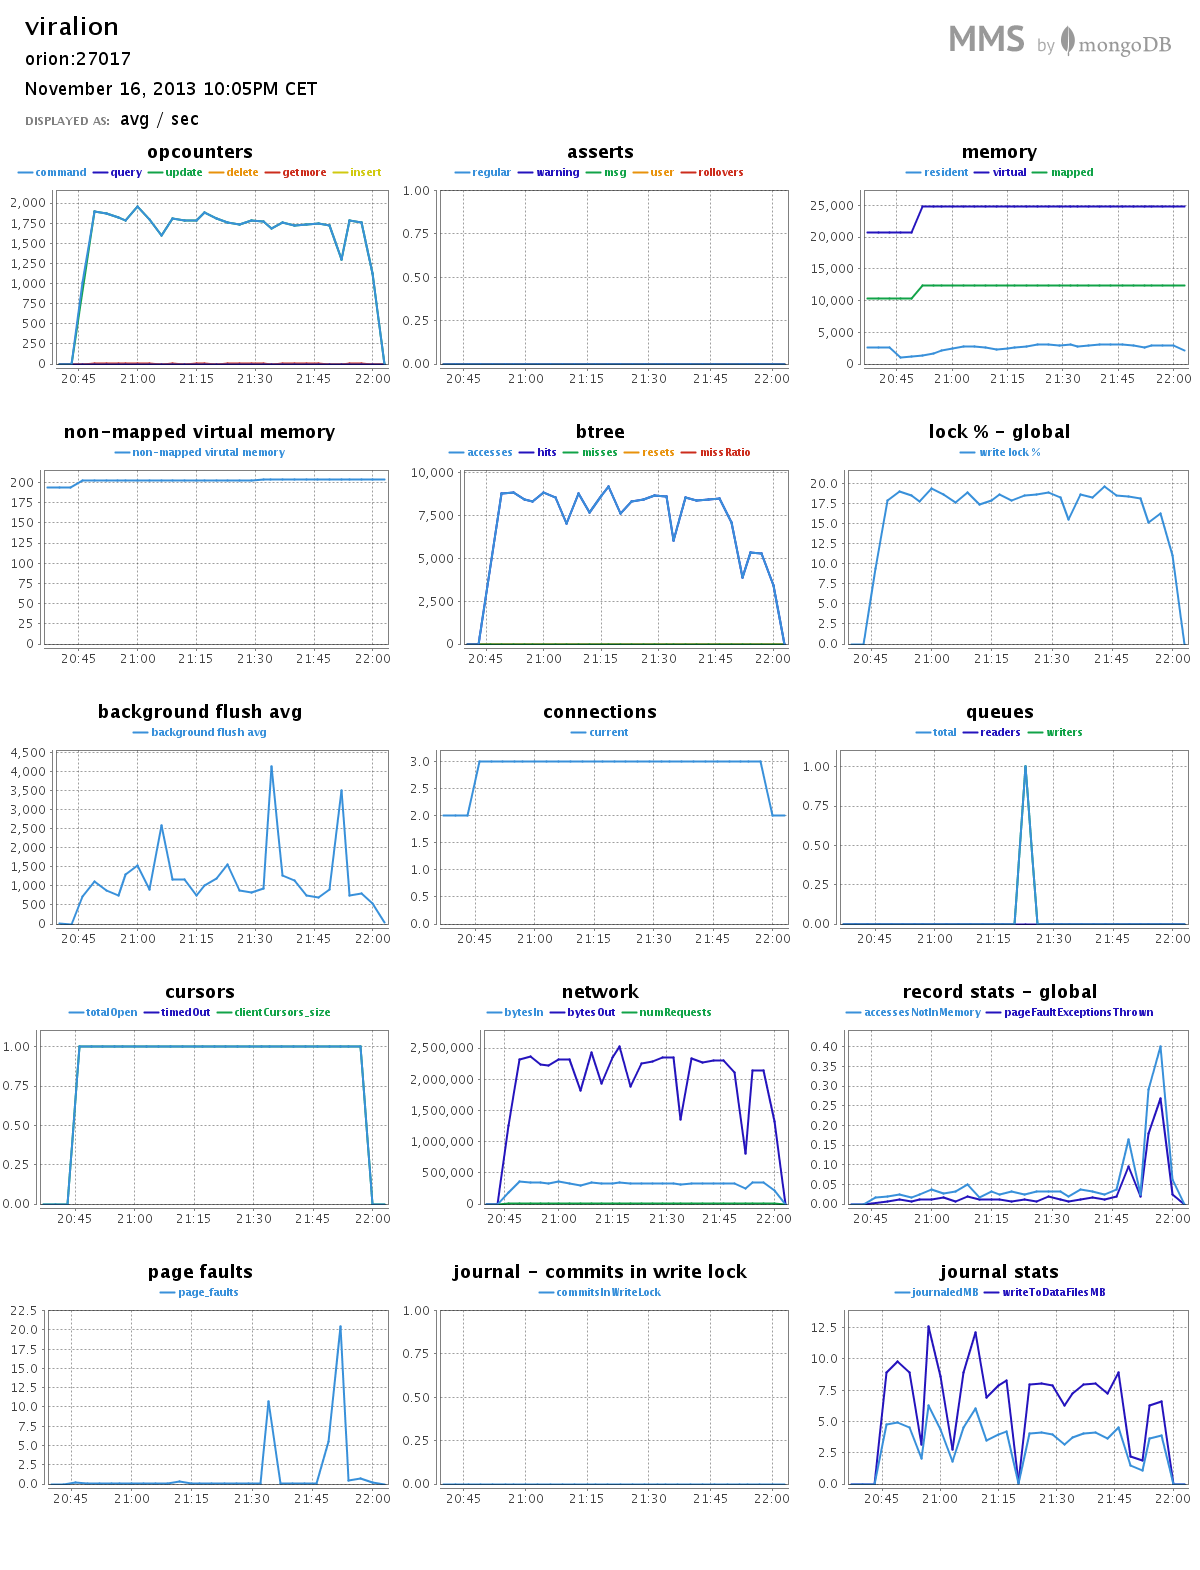
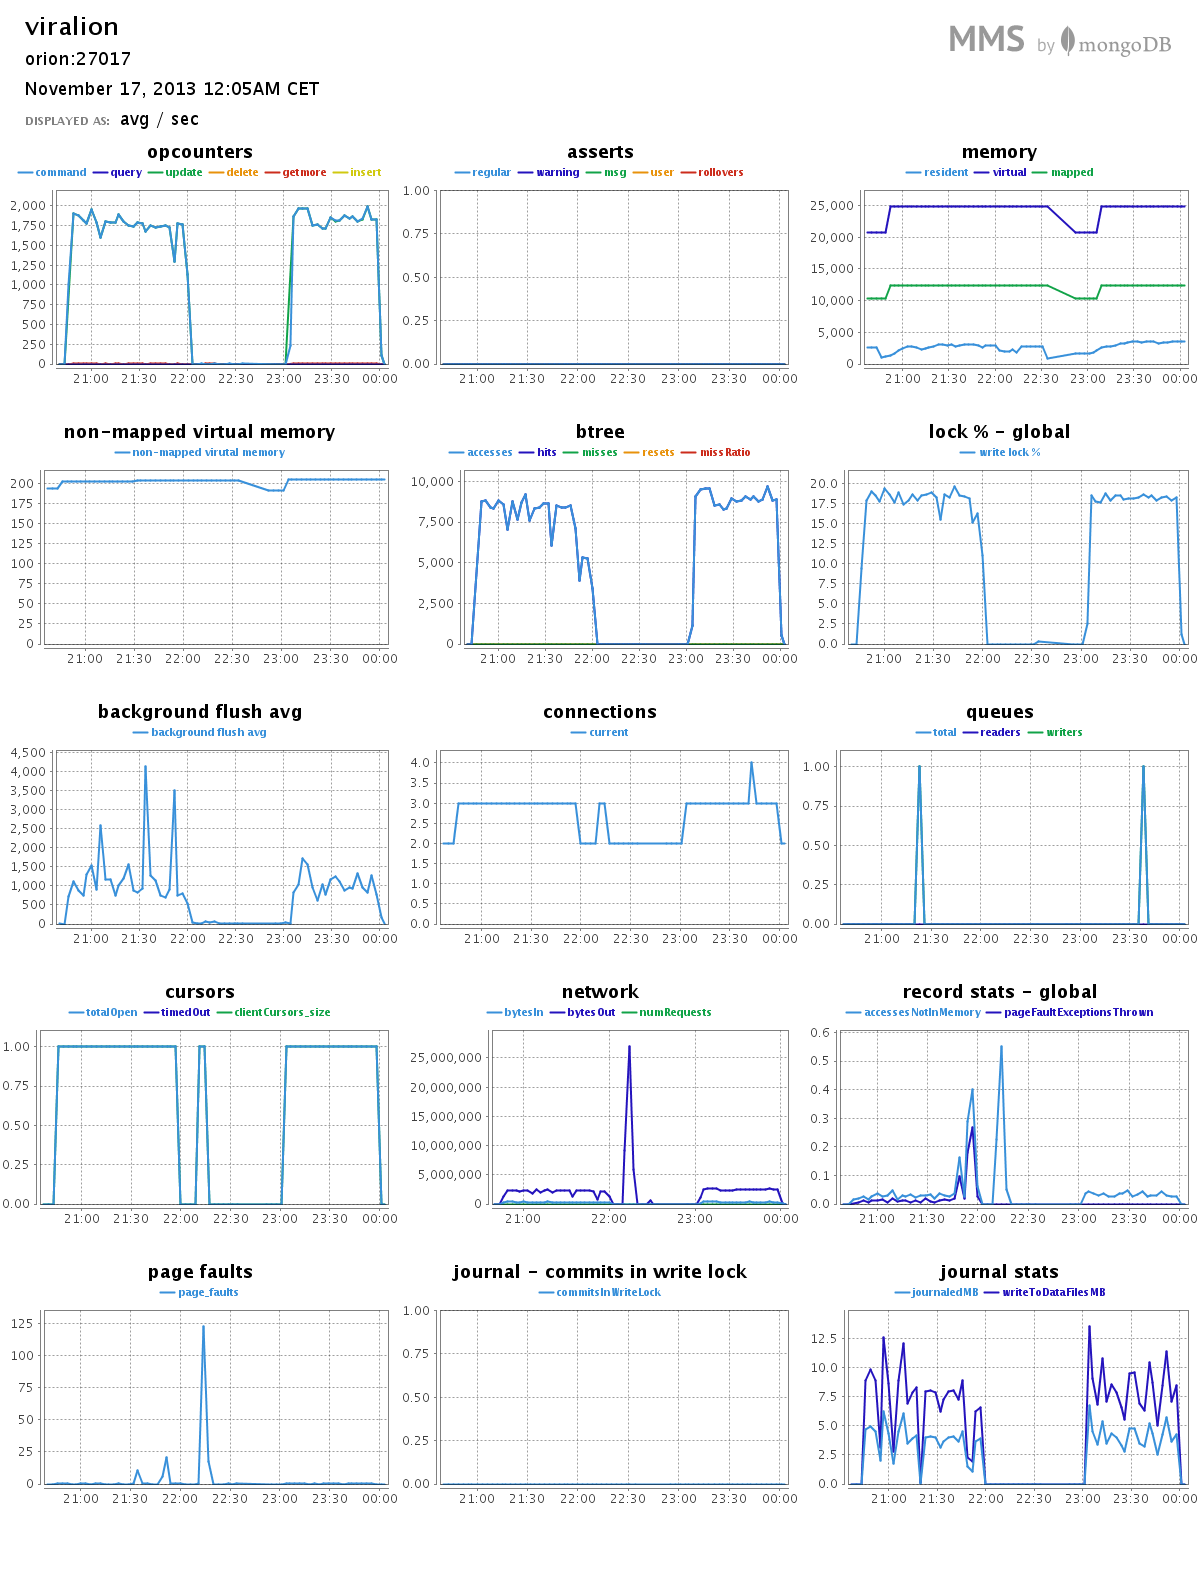
1c - poprawka w przerabianiu tagów i działające zliczanie

diff --git a/scripts/mkozminski/train_count.py b/scripts/mkozminski/train_count.py
@@ -1,0 +1,31 @@
+#!/bin/env python
+import pymongo
+
+from pymongo import MongoClient
+client = MongoClient()
+db = client.test
+train = db.train
+
+allEntries = train.find(snapshot=True)
+
+tagsCount = 0
+allTags = {}
+
+def countTags(allTags):
+    count = 0
+    for tag in allTags:
+        count += allTags[tag]
+    return count
+
+print('Counting...')
+for entry in allEntries:
+    for tag in entry['tags']:
+        val = allTags.get(tag, 0)
+        if val == 0:
+            allTags[tag] = 1
+        else:
+            allTags[tag] += 1
+print('Done.')
+print('All tags: ' + str(countTags(allTags)))
+print('Unique tags: ' + str(len(allTags)))
+allEntries.close();

diff --git a/scripts/mkozminski/train_tags.py b/scripts/mkozminski/train_tags.py
@@ -6,7 +6,7 @@ client = MongoClient()
 db = client.test
 train = db.train
 
-allEntries = train.find()
+allEntries = train.find(snapshot=True)
 
 print('Transforming...')
 for entry in allEntries:

diff --git a/docs/mkozminski/README.md b/docs/mkozminski/README.md
@@ -154,13 +154,13 @@ Aktualnie rekord w bazie wygląda następująco:
 
 Uruchomienie skryptu do zamiany tagów:
 ```sh
-$ python scripts/mkozminski/train_tags.py 
+$ time python scripts/mkozminski/train_tags.py 
 Transforming...
 Done.
 
-real    67m14.157s
-user    21m43.841s
-sys     0m25.415s
+real    54m36.138s
+user    19m39.489s
+sys 3m50.958s
 ```
 
 Po zamianie tagów wygląda następująco
@@ -179,6 +179,23 @@ Po zamianie tagów wygląda następująco
 }
 ```
 
-#### Przemiał MongoDB ####
-Interesujące nas dane znajdują się po drugim restarcie bazy (czerwona linia).
+##### Przemiał MongoDB #####
+Interesujące nas dane znajdują się po godzinie 23:00.
 ![mongodb train tags](../../images/mkozminski/train_tags.png "mongodb train tags")
+
+#### Zliczanie tagów ####
+```sh
+$ time python scripts/mkozminski/train_count.py 
+Counting...
+Done.
+All tags: 17409994
+Unique tags: 42048
+
+real    6m16.759s
+user    1m17.499s
+sys 0m12.733s
+```
+
+##### Przemiał MongoDB #####
+![mongodb train count](../../images/mkozminski/train_count.png "mongodb train count")
+Dzwinym trafem w trakcie zliczania nie pojawił się żaden pik na wykresie MMS. Powinien się pojawić w okolicach 00:10.
